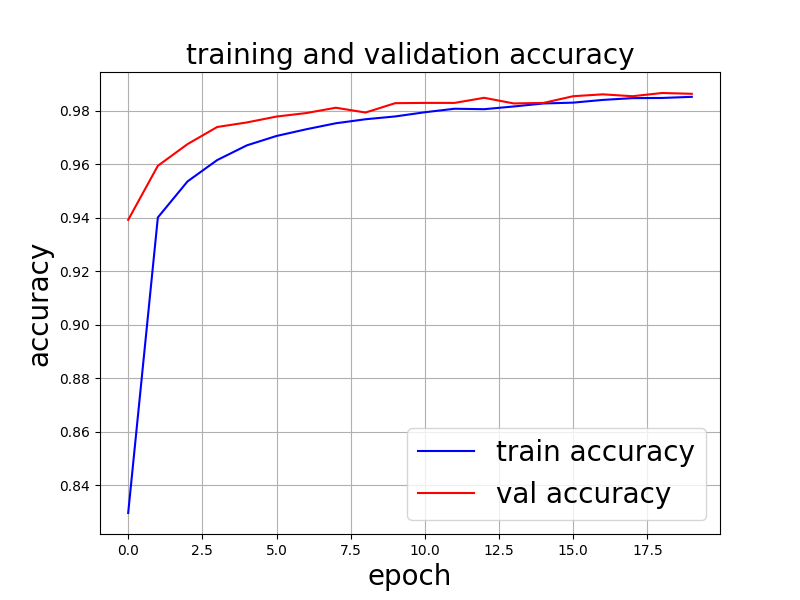
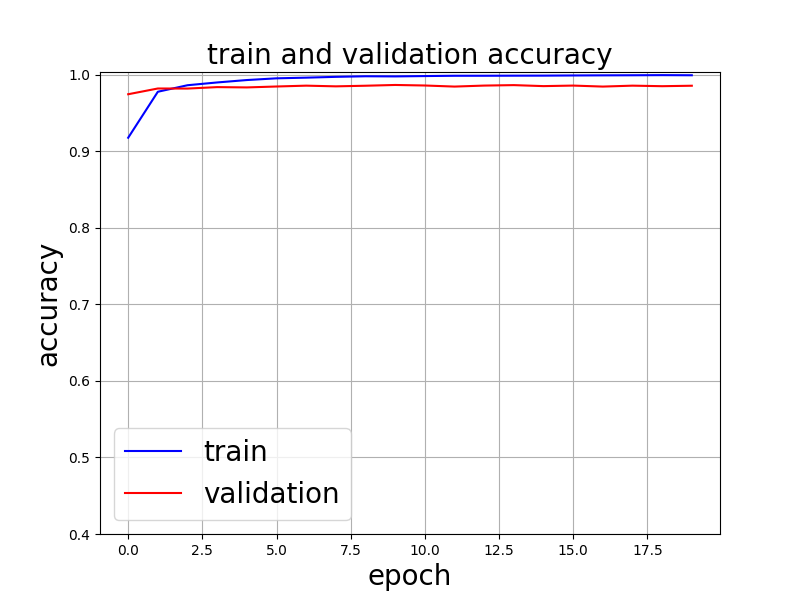
実験12

diff --git a/main.py b/main.py
@@ -11,8 +11,8 @@ import matplotlib.pyplot as plt
 device = 'cuda' if torch.cuda.is_available() else 'cpu'
 model = get_resnet(pretrained=True).to(device)
 #データローダー
-dataloader1 = get_train_dataloader(root="data", batch_size=32)
-dataloader2 = get_test_dataloader(root='data', batch_size=32)
+dataloader1 = get_train_dataloader(root="data", batch_size=128)
+dataloader2 = get_test_dataloader(root='data', batch_size=128)
 # オプティマイザーの定義
 optimizer = optim.SGD(params=model.parameters(),lr=1e-2)
 # 損失関数の定義
@@ -48,7 +48,7 @@ def train(epochs):
     print(f"epoch: {epochs + 1}")
     print(f"train_loss: {train_loss / len(dataloader1)}")
     print(f"train_accuracy: {train_accuracy / len(dataloader1)}")
-    with open('./result/data10_train.csv', 'a') as f:
+    with open('./result/data12_train.csv', 'a') as f:
             f.write('{:<3d},{:<3f},{:<3f}\n'.format(epochs+1,train_loss / len(dataloader1),train_accuracy / len(dataloader1)))
     train_loss = train_loss / len(dataloader1)
     train_accuracy = train_accuracy / len(dataloader1)
@@ -77,7 +77,7 @@ def val(epochs):
     print(f"epoch: {epochs + 1}")
     print(f"Validation loss: {val_loss / len(dataloader2)}")
     print(f"Validation accuracy: {val_accuracy / len(dataloader2)}")
-    with open('./result/data10_val.csv', 'a') as f:
+    with open('./result/data12_val.csv', 'a') as f:
             f.write('{:<3d},{:<3f},{:<3f}\n'.format(epochs+1,val_loss / len(dataloader2),val_accuracy / len(dataloader2)))
     val_loss = val_loss / len(dataloader2)
     val_accuracy = val_accuracy / len(dataloader2)
@@ -104,7 +104,7 @@ def run():
     plt.xlabel('Predict class', fontsize=13)
     plt.ylabel('True class', fontsize=13)
     plt.title('Confusion Matrix', fontsize=18)
-    plt.savefig('./result/confusion_matrix_17.png')
+    plt.savefig('./result/confusion_matrix_12.png')
     #lossグラフ作成
     fig, ax = plt.subplots(figsize=(8, 6))
     ax.plot(range(len(train_loss_list)), train_loss_list, c='b', label='train')
@@ -116,7 +116,7 @@ def run():
     ax.grid()
     ax.legend(fontsize='20')
     plt.show()
-    plt.savefig('./result/loss_graph_10.png')
+    plt.savefig('./result/loss_graph_12.png')
      #accuracyグラフ作成
     fig, ax = plt.subplots(figsize=(8, 6))
     ax.plot(range(len(train_accuracy_list)), train_accuracy_list, c='b', label='train')
@@ -128,7 +128,7 @@ def run():
     ax.grid()
     ax.legend(fontsize='20')
     plt.show()
-    plt.savefig('./result/accuracy_graph_10.png')
+    plt.savefig('./result/accuracy_graph_12.png')
     #間違えた数字の可視化
     fig = plt.figure(figsize=(20,5))
     data_block = torch.cat(data_list,dim=0)
@@ -139,7 +139,7 @@ def run():
         ax.axis('off')
         ax.set_title(f'true:{true_list[idx]} pred:{preds_list[idx]}')
         ax.imshow(data_block[idx,0])
-        plt.savefig('./result/misspreddata_10')
+        plt.savefig('./result/misspreddata_12')
 
 if __name__ == "__main__":
     run()

diff --git a/dataset/mnist.py b/dataset/mnist.py
@@ -3,7 +3,7 @@ from torchvision.datasets import MNIST
 from torchvision import transforms
 
 
-def get_train_dataloader(root: str, batch_size: int=32):
+def get_train_dataloader(root: str, batch_size: int=128):
     transform = transforms.Compose([
         transforms.ToTensor()
     ])
@@ -23,7 +23,7 @@ def get_train_dataloader(root: str, batch_size: int=32):
     )
     return train_dataloader
 
-def get_test_dataloader(root: str, batch_size: int=32):
+def get_test_dataloader(root: str, batch_size: int=128):
     transform = transforms.Compose([
         transforms.ToTensor()
     ])
